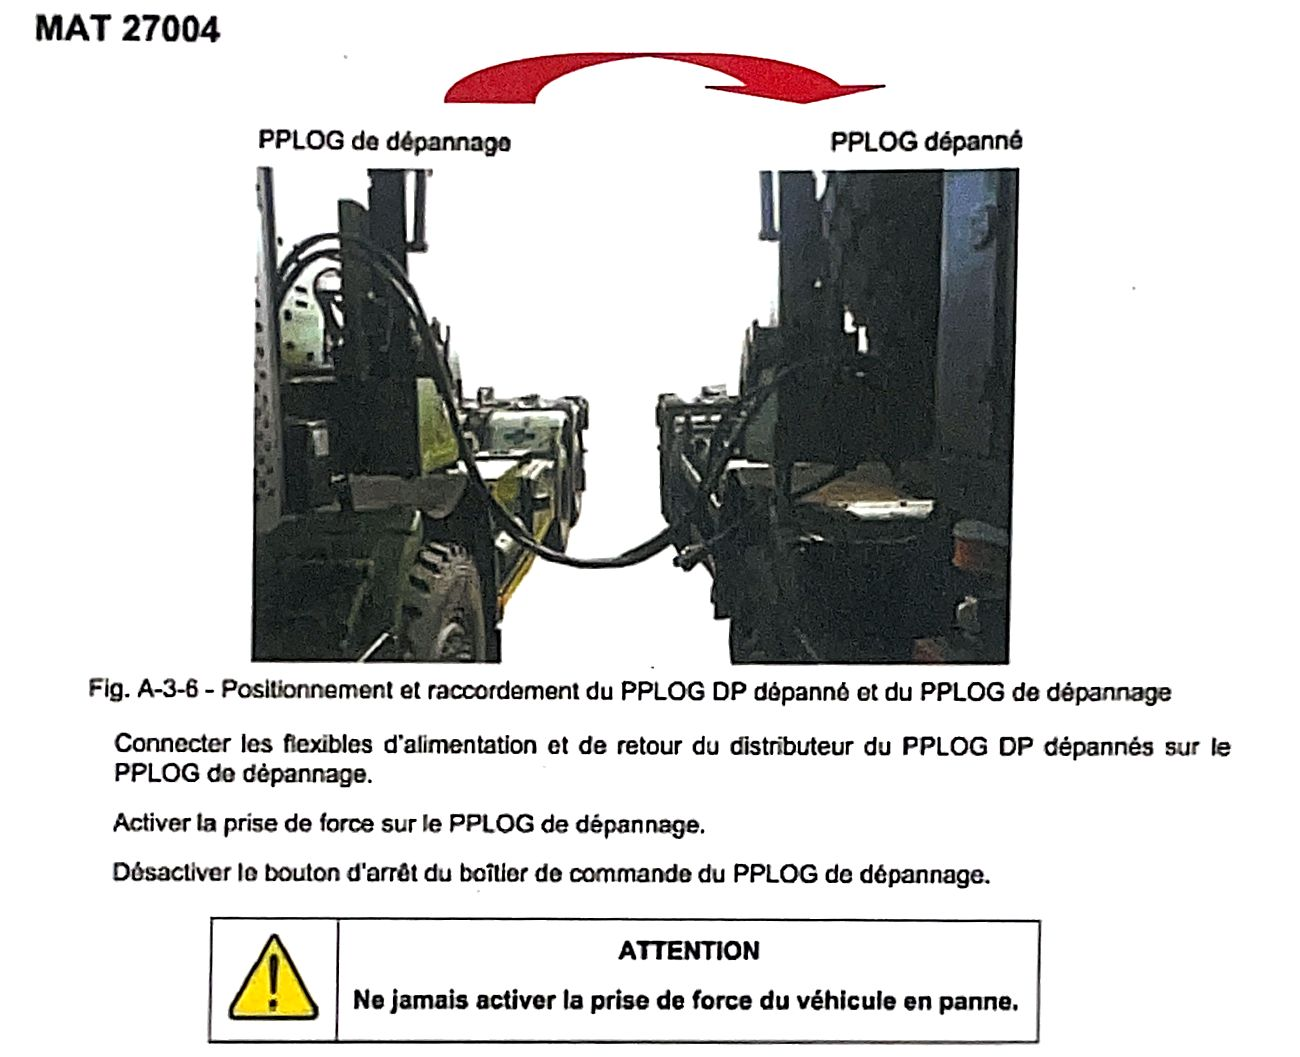
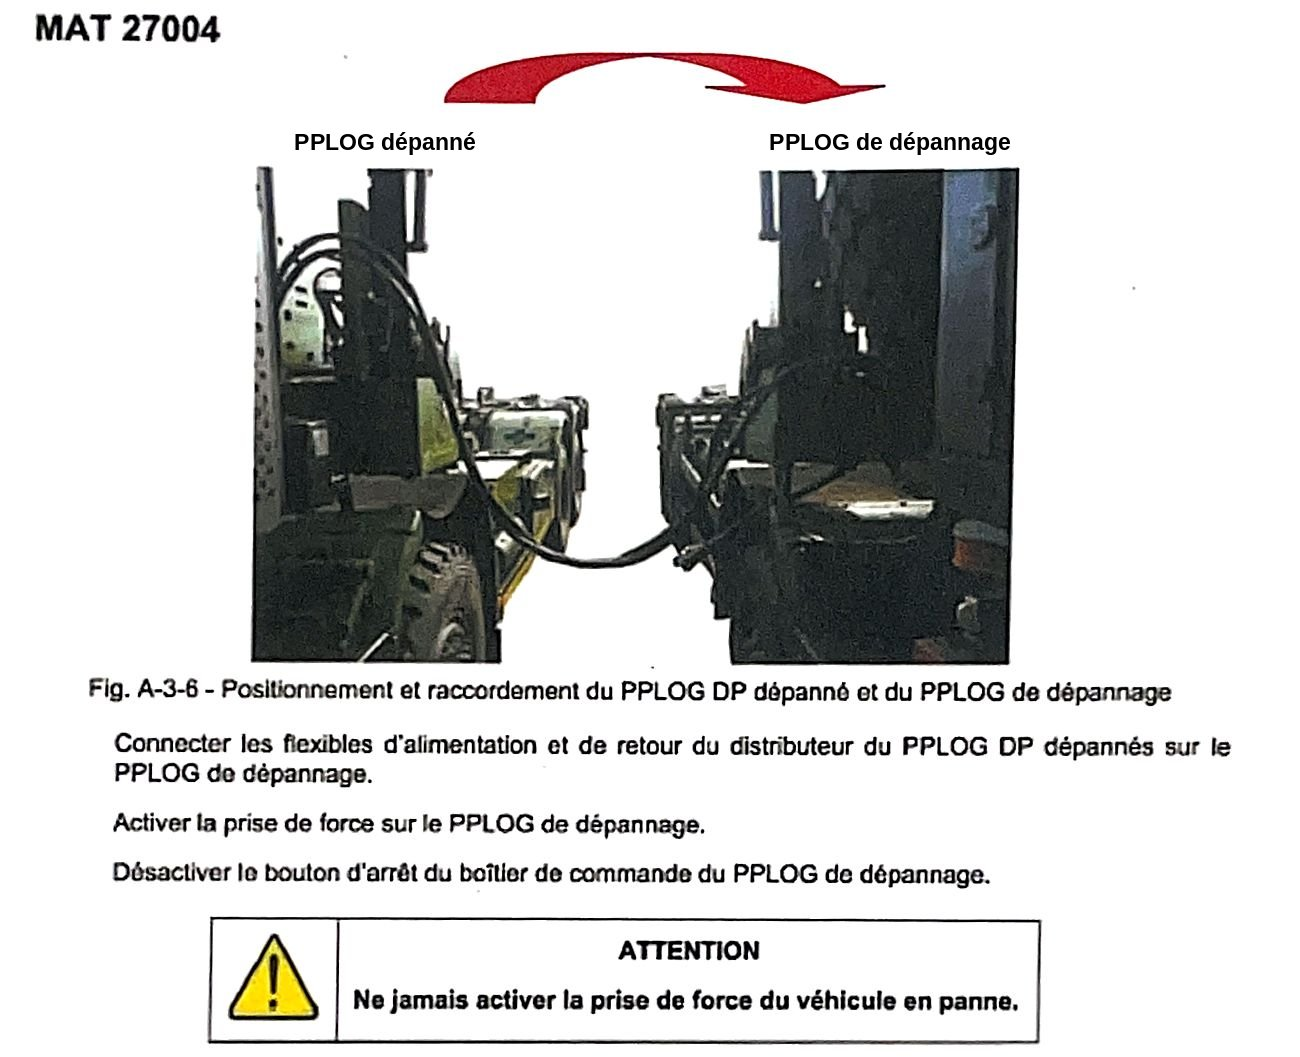
PPLOG équipement : légendes PPLOG dépanné (gauche) / de dépannage (droite) sur l'image de défaillance de la génération
Claude-Session: https://claude.ai/code/session_01D3Lx1Qr2oNcPCFz26VVP4k

Changed region(s): [[0.5846, 0.1249, 0.8, 0.1561], [0.1846, 0.1249, 0.4, 0.1561]]

diff --git a/js/data/73-pplog-equipement.js b/js/data/73-pplog-equipement.js
@@ -74,7 +74,7 @@
       images: [im('eq-dechargement', 'Séquence de déchargement : recul de la coulisse, puis sortie des vérins de bras'),
         im('eq-chargement', 'Séquence de chargement : rentrée des vérins de bras, puis sortie de la coulisse'),
         im('eq-degrade-electrique', 'Défaillance électrique : vis de shuntage sur EV3 (pompe) et tranches A du groupe de distribution'),
-        im('eq-degrade-generation', 'Défaillance de la génération : flexibles du PPLOG en panne branchés sur le PPLOG de dépannage')],
+        im('eq-degrade-generation', 'Défaillance de la génération : le PPLOG dépanné (à gauche) envoie ses flexibles sur le PPLOG de dépannage (à droite)')],
       html:
         bloc('Déchargement (dépose)', null,
           ['EV3 + <b>EV9</b> : rentrée du vérin de coulisse (EV2 décompresse les vérins de bras). Arrêt par <b>DT3</b> (sécurité : LPP 290 b).', 'Puis EV3 + <b>EV6</b> : sortie des 2 vérins de bras (valve de contrôle de charge). <b>DT5</b> s’active au contact bras / biellette (sécurité : LPS 265 b).', 'On lâche le bouton quand le crochet arrive à hauteur de l’anneau du PLM.']) +

diff --git a/sw.js b/sw.js
@@ -1,5 +1,5 @@
 /* Service worker : permet d'utiliser le site hors connexion (réseau d'abord, cache en secours). */
-const CACHE = 'revisions2026-v147';
+const CACHE = 'revisions2026-v148';
 self.addEventListener('install', (e) => { self.skipWaiting(); });
 self.addEventListener('activate', (e) => {
   e.waitUntil(caches.keys().then((keys) => Promise.all(keys.filter((k) => k !== CACHE).map((k) => caches.delete(k)))).then(() => self.clients.claim()));
